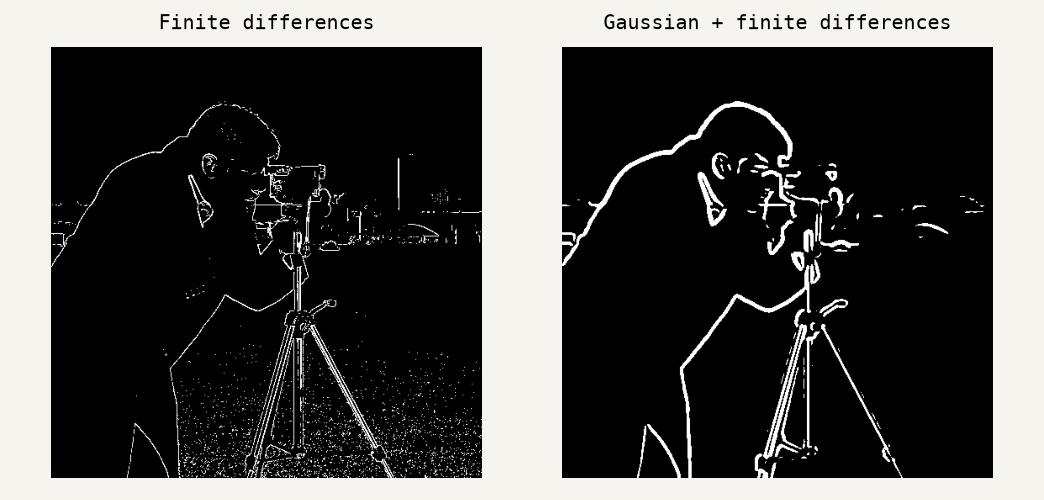
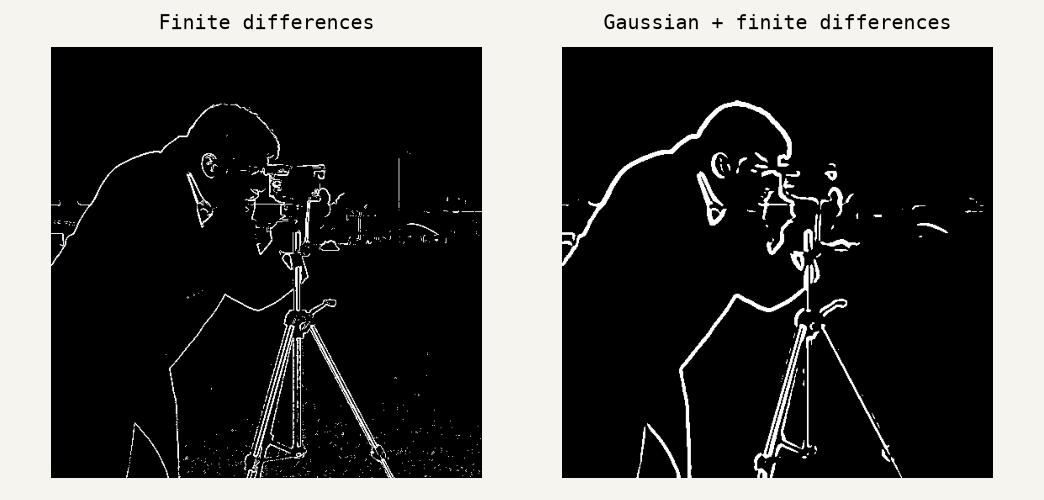
Match finite difference filters to assignment diagram

diff --git a/proj2/index.html b/proj2/index.html
@@ -7,7 +7,7 @@
 <nav class="project-nav" aria-label="Projects"><a href="../index.html">Project 0</a><a href="../proj1/">Project 1</a><a href="./" aria-current="page">Project 2</a></nav></header>
 <main><header class="page-header"><p class="course-label">CS 180 · Project 2 · Fall 2026</p><h1>Fun with Filters <br>and Frequencies</h1>
 <p class="intro"><a href="https://izatr2004.github.io/project-website/proj2/">https://izatr2004.github.io/project-website/proj2/</a></p>
-<nav class="section-nav" aria-label="Report sections"><a href="#part11">1.1 Convolutions</a><a href="#part12">1.2 Finite differences</a><a href="#part13">1.3 DoG</a><a href="#part21">2.1 Sharpening</a><a href="#part22">2.2 Hybrids</a><a href="#part23">2.3 Stacks</a><a href="#part24">2.4 Blending</a></nav></header><section class="report-page" id="part11"><h2>Part 1.1: Convolutions from Scratch</h2><p>I implemented convolution with four loops over the image and filter, then with two loops over the image and a NumPy sum for each patch. Both versions flip the filter and return an image with the same dimensions as the input.</p><figure class=""><a href="./images/convolution-portrait.jpg"><img src="./images/convolution-portrait.jpg" width="2088" height="500" alt="My Project 0 portrait, resized to 180 x 240 and converted to grayscale. The derivative displays use gray for zero, white for positive values, and black for negative values."></a><figcaption>My Project 0 portrait, resized to 180 x 240 and converted to grayscale. The derivative displays use gray for zero, white for positive values, and black for negative values.</figcaption></figure><p>The box filter is <code>np.ones((9, 9)) / 81</code>. The difference filters are <code>Dx = [[1, -1]]</code> and <code>Dy = [[1], [-1]]</code>. I use zero padding here: 4 pixels on each side for the box filter, and one leading zero for the two-element filters. This matches SciPy's <code>mode='same', boundary='fill'</code>, including even-sized kernels.</p><table><thead><tr><th>Filter</th><th>Four loops</th><th>Two loops</th><th>SciPy</th><th>Max. error</th></tr></thead><tbody><tr><td>9x9 box</td><td>785.40 ms</td><td>65.77 ms</td><td>2.77 ms</td><td>1.89e-15</td></tr><tr><td>Dx</td><td>28.50 ms</td><td>77.18 ms</td><td>0.27 ms</td><td>0.00e+00</td></tr><tr><td>Dy</td><td>33.85 ms</td><td>70.60 ms</td><td>0.35 ms</td><td>0.00e+00</td></tr></tbody></table><p>These are median times from three runs per method on the same 180 x 240 image. The two-loop version is faster for the 9 x 9 filter, but slower for the small difference filters. I think the extra NumPy call for each patch costs more than the two multiplications in this case. SciPy is fastest in all three comparisons. Zero padding darkens the box-filtered image near its border because some of the averaged values are zero.</p></section>
+<nav class="section-nav" aria-label="Report sections"><a href="#part11">1.1 Convolutions</a><a href="#part12">1.2 Finite differences</a><a href="#part13">1.3 DoG</a><a href="#part21">2.1 Sharpening</a><a href="#part22">2.2 Hybrids</a><a href="#part23">2.3 Stacks</a><a href="#part24">2.4 Blending</a></nav></header><section class="report-page" id="part11"><h2>Part 1.1: Convolutions from Scratch</h2><p>I implemented convolution with four loops over the image and filter, then with two loops over the image and a NumPy sum for each patch. Both versions flip the filter and return an image with the same dimensions as the input.</p><figure class=""><a href="./images/convolution-portrait.jpg"><img src="./images/convolution-portrait.jpg" width="2088" height="500" alt="My Project 0 portrait, resized to 180 x 240 and converted to grayscale. The derivative displays use gray for zero, white for positive values, and black for negative values."></a><figcaption>My Project 0 portrait, resized to 180 x 240 and converted to grayscale. The derivative displays use gray for zero, white for positive values, and black for negative values.</figcaption></figure><p>The box filter is <code>np.ones((9, 9)) / 81</code>. The difference filters are <code>Dx = [[1, 0, -1]]</code> and <code>Dy = [[1], [0], [-1]]</code>. I use zero padding here: 4 pixels on each side for the box filter, one column on each side for Dx, and one row above and below for Dy. This matches SciPy's <code>mode='same', boundary='fill'</code>.</p><table><thead><tr><th>Filter</th><th>Four loops</th><th>Two loops</th><th>SciPy</th><th>Max. error</th></tr></thead><tbody><tr><td>9x9 box</td><td>793.02 ms</td><td>63.21 ms</td><td>2.86 ms</td><td>1.89e-15</td></tr><tr><td>Dx</td><td>32.79 ms</td><td>58.06 ms</td><td>0.28 ms</td><td>0.00e+00</td></tr><tr><td>Dy</td><td>35.72 ms</td><td>57.51 ms</td><td>0.51 ms</td><td>0.00e+00</td></tr></tbody></table><p>These are median times from three runs per method on the same 180 x 240 image. The two-loop version is faster for the 9 x 9 filter, but slower for the small difference filters. I think the extra NumPy call for each patch costs more than the few scalar operations in this case. SciPy is fastest in all three comparisons. Zero padding darkens the box-filtered image near its border because some of the averaged values are zero.</p></section>
 <section class="report-page" id="convolution-code"><h3>Part 1.1: Convolution code</h3><p>The implementations below use NumPy only. The padding places one extra pixel before the image for an even-sized filter, which keeps the output aligned with SciPy.</p><pre><code>def convolve_four(im, kernel):
     h, w = im.shape
     kh, kw = kernel.shape
@@ -29,13 +29,13 @@
         for x in range(w):
             result[y, x] = np.sum(padded[y:y+kh, x:x+kw] * flipped)
     return result</code></pre><pre><code>box = np.ones((9, 9)) / 81
-dx = np.array([[1., -1.]])
+dx = np.array([[1., 0., -1.]])
 dy = dx.T
 result = convolve_two(portrait, box)
 reference = convolve2d(portrait, box, mode=&#x27;same&#x27;, boundary=&#x27;fill&#x27;)</code></pre></section>
-<section class="report-page" id="part12"><h2>Part 1.2: Finite Difference Operator</h2><p>I convolve the cameraman image with Dx and Dy, then compute the gradient magnitude as <code>sqrt(gx**2 + gy**2)</code>. Dx responds to intensity changes across columns; Dy responds to changes across rows. I use symmetric boundary padding in this section so the outside of the image does not create an artificial edge.</p><figure class=""><a href="./images/finite-difference.jpg"><img src="./images/finite-difference.jpg" width="1566" height="1000" alt="The x and y derivatives, gradient magnitude, and thresholded edge map. The magnitude is displayed on the original 0 to 1 scale."></a><figcaption>The x and y derivatives, gradient magnitude, and thresholded edge map. The magnitude is displayed on the original 0 to 1 scale.</figcaption></figure><p>I chose a threshold of 0.20 for intensities between 0 and 1. At 0.10, much more grass texture survives. At 0.30, some weaker camera and tripod edges disappear. The 0.20 result keeps the main silhouette and tripod, although there are still small responses in the grass. I think this is a reasonable tradeoff before adding smoothing.</p></section>
-<section class="report-page" id="part13"><h2>Part 1.3: Derivative of Gaussian (DoG) Filter</h2><p>I use <code>cv.getGaussianKernel(13, 2)</code> and its outer product to make a normalized 13 x 13 Gaussian. Convolving this kernel with Dx and Dy in full mode gives the two DoG filters. Their positive and negative lobes take a difference while also smoothing nearby pixels.</p><figure class=""><a href="./images/dog-kernels.jpg"><img src="./images/dog-kernels.jpg" width="1566" height="500" alt="The Gaussian is scaled by its maximum for display. Each signed DoG kernel is centered on gray; its numerical sum is approximately zero."></a><figcaption>The Gaussian is scaled by its maximum for display. Each signed DoG kernel is centered on gray; its numerical sum is approximately zero.</figcaption></figure><figure class=""><a href="./images/edge-comparison.jpg"><img src="./images/edge-comparison.jpg" width="1044" height="500" alt="Finite differences at threshold 0.20, compared with the smoothed result at threshold 0.055."></a><figcaption>Finite differences at threshold 0.20, compared with the smoothed result at threshold 0.055.</figcaption></figure><p>Smoothing removes much of the grass texture and gives cleaner, thicker edges around the head and tripod. Some small background details also disappear. The derivative values become smaller after smoothing, so I lowered the threshold to 0.055 instead of keeping 0.20.</p></section>
-<section class="report-page" id="dog-check"><h3>Part 1.3: Comparing the two methods</h3><p>The first method blurs the image and then applies each difference filter. The second applies each DoG filter directly to the image. By associativity, <code>(I * G) * Dx = I * (G * Dx)</code>, and the same holds for Dy.</p><figure class=""><a href="./images/dog-comparison.jpg"><img src="./images/dog-comparison.jpg" width="1566" height="1000" alt="The two methods produce the same gradient magnitude and binary edge map."></a><figcaption>The two methods produce the same gradient magnitude and binary edge map.</figcaption></figure><p>The largest absolute difference is 9.73e-16 for x and 1.03e-15 for y. I symmetrically extend the image by 13 pixels once, run both methods on that extension, and crop only at the end. Keeping that extra border avoids losing samples between the two convolutions. The remaining difference is floating-point rounding.</p></section>
+<section class="report-page" id="part12"><h2>Part 1.2: Finite Difference Operator</h2><p>I convolve the cameraman image with Dx and Dy, then compute the gradient magnitude as <code>sqrt(gx**2 + gy**2)</code>. Dx responds to intensity changes across columns; Dy responds to changes across rows. I use symmetric boundary padding in this section so the outside of the image does not create an artificial edge.</p><figure class=""><a href="./images/finite-difference.jpg"><img src="./images/finite-difference.jpg" width="1566" height="1000" alt="The x and y derivatives, gradient magnitude, and thresholded edge map. The magnitude is displayed on the original 0 to 1 scale."></a><figcaption>The x and y derivatives, gradient magnitude, and thresholded edge map. The magnitude is displayed on the original 0 to 1 scale.</figcaption></figure><p>I chose a threshold of 0.30 for intensities between 0 and 1. At 0.20, much more grass texture survives. At 0.40, some weaker camera and tripod edges disappear. The 0.30 result keeps the main silhouette and tripod, although there are still small responses in the grass. I think this is a reasonable tradeoff before adding smoothing.</p></section>
+<section class="report-page" id="part13"><h2>Part 1.3: Derivative of Gaussian (DoG) Filter</h2><p>I use <code>cv.getGaussianKernel(13, 2)</code> and its outer product to make a normalized 13 x 13 Gaussian. Convolving this kernel with Dx and Dy in full mode gives the two DoG filters. Their positive and negative lobes take a difference while also smoothing nearby pixels.</p><figure class=""><a href="./images/dog-kernels.jpg"><img src="./images/dog-kernels.jpg" width="1566" height="500" alt="The Gaussian is scaled by its maximum for display. Each signed DoG kernel is centered on gray; its numerical sum is approximately zero."></a><figcaption>The Gaussian is scaled by its maximum for display. Each signed DoG kernel is centered on gray; its numerical sum is approximately zero.</figcaption></figure><figure class=""><a href="./images/edge-comparison.jpg"><img src="./images/edge-comparison.jpg" width="1044" height="500" alt="Finite differences at threshold 0.30, compared with the smoothed result at threshold 0.11."></a><figcaption>Finite differences at threshold 0.30, compared with the smoothed result at threshold 0.11.</figcaption></figure><p>Smoothing removes much of the grass texture and gives cleaner, thicker edges around the head and tripod. Some small background details also disappear. The derivative values become smaller after smoothing, so I lowered the threshold to 0.11 instead of keeping 0.30.</p></section>
+<section class="report-page" id="dog-check"><h3>Part 1.3: Comparing the two methods</h3><p>The first method blurs the image and then applies each difference filter. The second applies each DoG filter directly to the image. By associativity, <code>(I * G) * Dx = I * (G * Dx)</code>, and the same holds for Dy.</p><figure class=""><a href="./images/dog-comparison.jpg"><img src="./images/dog-comparison.jpg" width="1566" height="1000" alt="The two methods produce the same gradient magnitude and binary edge map."></a><figcaption>The two methods produce the same gradient magnitude and binary edge map.</figcaption></figure><p>The largest absolute difference is 9.43e-16 for x and 9.99e-16 for y. I symmetrically extend the image by 13 pixels once, run both methods on that extension, and crop only at the end. Keeping that extra border avoids losing samples between the two convolutions. The remaining difference is floating-point rounding.</p></section>
 <section class="report-page" id="part21"><h2>Part 2.1: Image "Sharpening"</h2><p>A Gaussian blur keeps low frequencies. Subtracting it from the original gives the high-frequency component, and adding a scaled copy of that component increases contrast around details:</p><p class="formula">I<sub>sharp</sub> = I + alpha (I - G * I)<br>= [(1 + alpha) delta - alpha G] * I</p><p>I build the single kernel <code>(1 + alpha) delta - alpha G</code> and convolve once. Delta is zero except for a 1 at the center. All examples here use sigma 2 and a 13 x 13 Gaussian. RGB channels are filtered independently, and values are clipped only when displayed or saved.</p><figure class=""><a href="./images/sharpen-taj.jpg"><img src="./images/sharpen-taj.jpg" width="1566" height="1000" alt="Taj Mahal: original, low frequencies, signed high frequencies, and three sharpening amounts."></a><figcaption>Taj Mahal: original, low frequencies, signed high frequencies, and three sharpening amounts.</figcaption></figure><p>The window and dome details become more visible as alpha increases. At alpha 4, the image has stronger bright and dark outlines and starts to look harsh. I prefer alpha 1 or 2 for this image.</p></section>
 <section class="report-page" id="sharpen-evaluation"><h3>Part 2.1: Additional image and evaluation</h3><figure class=""><a href="./images/sharpen-building.jpg"><img src="./images/sharpen-building.jpg" width="1566" height="1000" alt="My Project 0 building photo, resized to 450 x 600. Increasing alpha brings out the window grid and foliage, but also strengthens outlines against the sky."></a><figcaption>My Project 0 building photo, resized to 450 x 600. Increasing alpha brings out the window grid and foliage, but also strengthens outlines against the sky.</figcaption></figure><figure class=""><a href="./images/resharpen.jpg"><img src="./images/resharpen.jpg" width="1566" height="500" alt="A sharp cat image, the image after Gaussian blur, and the blurred image sharpened again."></a><figcaption>A sharp cat image, the image after Gaussian blur, and the blurred image sharpened again.</figcaption></figure><p>Resharpening makes the eyes and whiskers clearer than in the blurred version, but it does not restore all the fine fur detail. The mean squared error relative to the original drops from 0.001027 after blur to 0.000688 after sharpening. It is still above zero. Sharpening boosts the frequencies that remain; it does not undo the blur exactly.</p><p>The single-filter result also matches <code>I + 2*(I - blur(I))</code> to within 3.82e-14 before clipping.</p></section>
 <section class="report-page" id="part22"><h2>Part 2.2: Hybrid Images</h2><p>For each pair, I keep low frequencies from one image and high frequencies from the other, then add them. Close up, the high-frequency details are easier to see. From farther away, the low-frequency shape becomes more visible. I use grayscale for all three hybrids.</p><p>For alignment, I select the two eye centers and map them to (170, 185) and (310, 185) on a 480 x 480 canvas. The transform adjusts scale, rotation, and position. I then crop both images to their shared valid area. The saved points and crop coordinates in the script make the results repeatable.</p><h3>Cat and tiger</h3><figure class=""><a href="./images/cat-tiger-originals.jpg"><img src="./images/cat-tiger-originals.jpg" width="1044" height="500" alt="Original tiger and Chelsea the cat. This is the custom example used for the frequency analysis."></a><figcaption>Original tiger and Chelsea the cat. This is the custom example used for the frequency analysis.</figcaption></figure><figure class=""><a href="./images/cat-tiger-aligned.jpg"><img src="./images/cat-tiger-aligned.jpg" width="1566" height="500" alt="Aligned inputs and hybrid. The shared crop is 410 x 226. The eyes line up, while the nose shapes still differ."></a><figcaption>Aligned inputs and hybrid. The shared crop is 410 x 226. The eyes line up, while the nose shapes still differ.</figcaption></figure></section>
